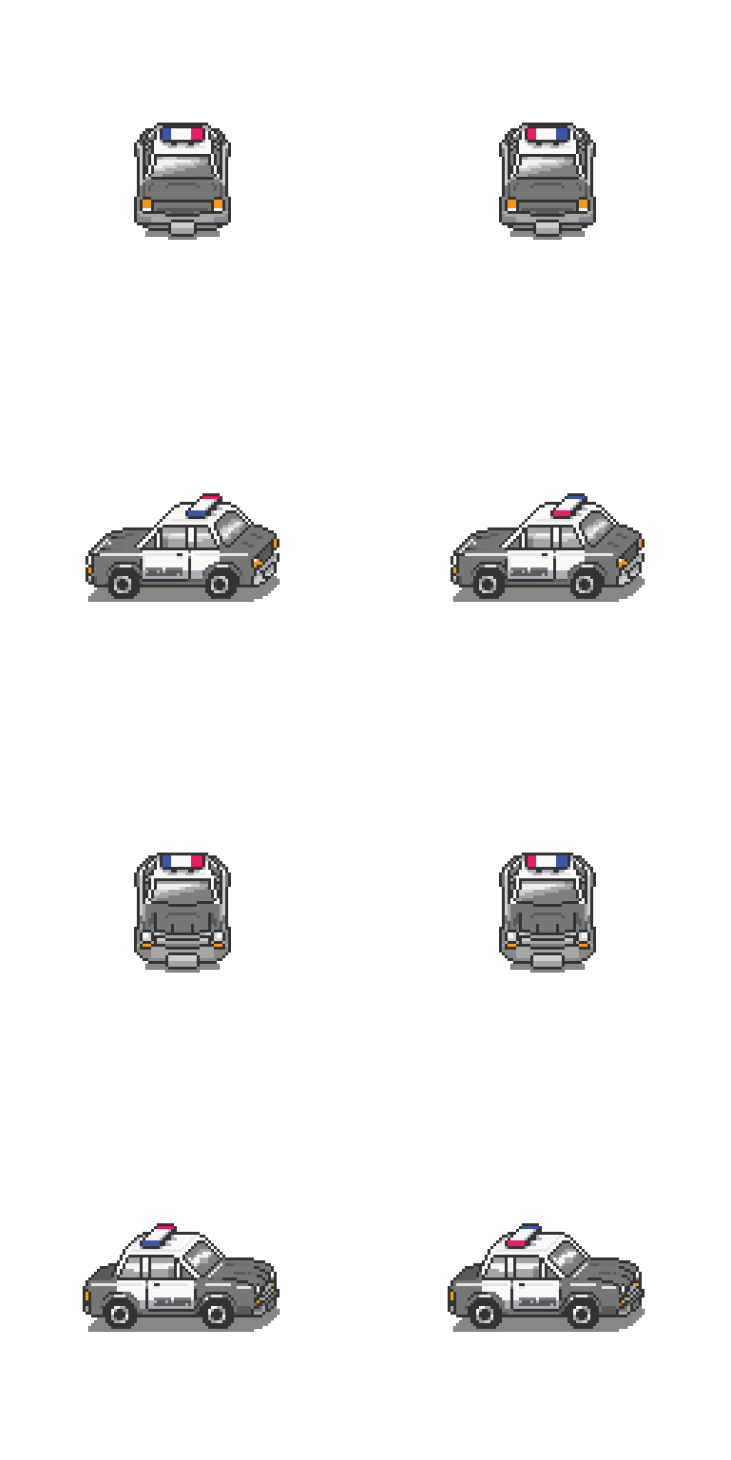
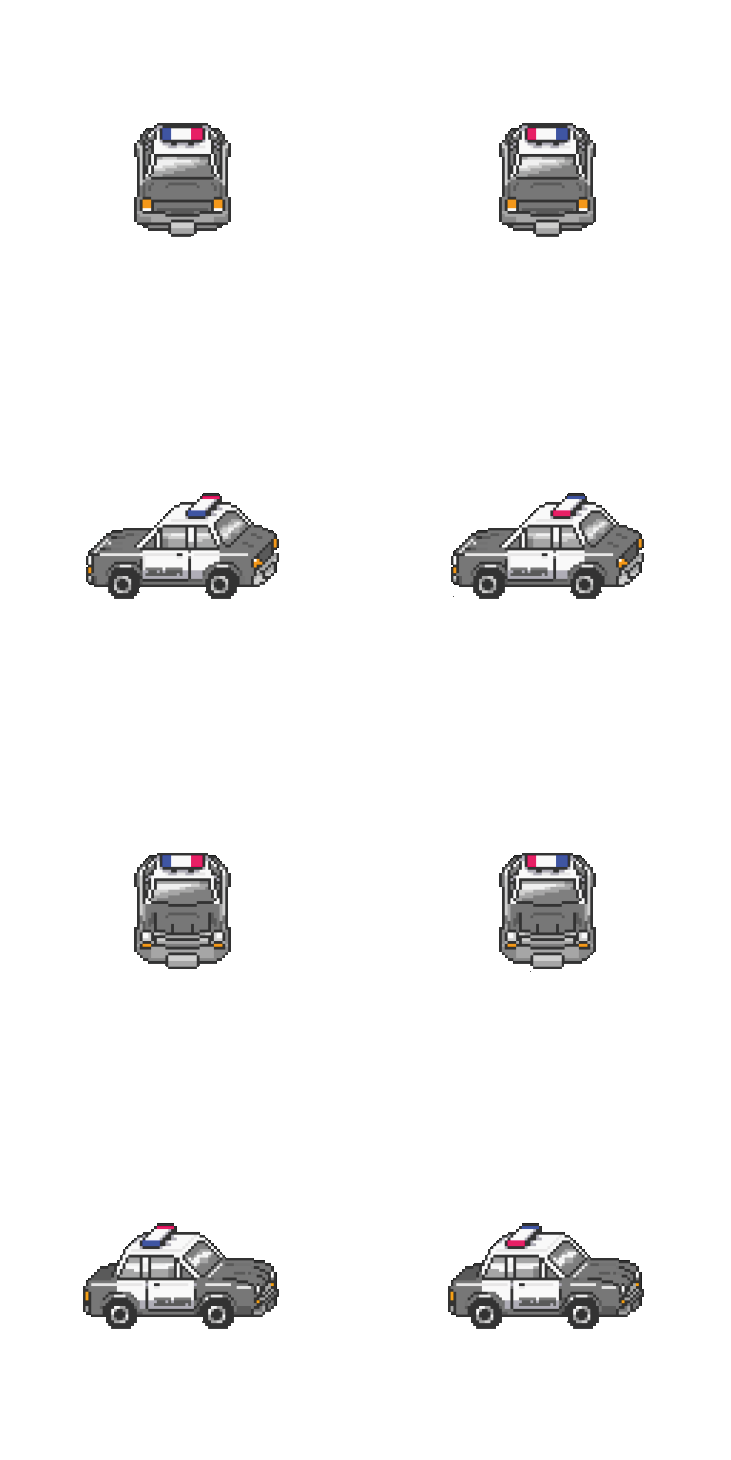
car moving

diff --git a/src/game/maps/directions.c b/src/game/maps/directions.c
@@ -7,94 +7,79 @@
 
 #include "../../../include/func_name.h"
 
-void move_up_map(rpg_t *rpg, int on_map)
+void move_up_map(rpg_t *rpg, int on_map, objects_t *objects, map_t *map)
 {
     if ((rpg->basic->evt->event.type == sfEvtTextEntered) &&
     (rpg->basic->evt->event.text.unicode ==
     (unsigned int)rpg->menu->stg->key_bnd->control[UP]->text[0])) {
         if (check_collision(rpg, UP) != COLLISION) {
-            rpg->game->in_game->map->pos_map[on_map].y +=
-            rpg->game->in_game->map->speed
-            [rpg->game->in_game->objects->speed_status];
-            rpg->game->in_game->objects->car->car_pos.y +=
-            rpg->game->in_game->map->speed
-            [rpg->game->in_game->objects->speed_status];
+            map->pos_map[on_map].y += map->speed[objects->speed_status];
+            if (map->speed[objects->speed_status] != 5)
+                objects->car->car_pos.y += map->speed[objects->speed_status];
             move_enemies_on_map(rpg, UP);
-            rpg->game->in_game->map->dir = UP;
+            map->dir = UP;
         }
-        sfSprite_setPosition(rpg->game->in_game->map->maps[on_map],
-        rpg->game->in_game->map->pos_map[on_map]);
+        sfSprite_setPosition(map->maps[on_map], map->pos_map[on_map]);
         rect_move_player(rpg, UP);
-        rpg->game->in_game->map->last_pos = UP;
+        map->last_pos = UP;
     }
 }
 
-void move_down_map(rpg_t *rpg,int on_map)
+void move_down_map(rpg_t *rpg, int on_map, objects_t *objects, map_t *map)
 {
-    move_up_map(rpg, on_map);
+    move_up_map(rpg, on_map, objects, map);
     if ((rpg->basic->evt->event.type == sfEvtTextEntered) &&
     (rpg->basic->evt->event.text.unicode ==
     (unsigned int)rpg->menu->stg->key_bnd->control[DOWN]->text[0])) {
         if (check_collision(rpg, DOWN) != COLLISION) {
-            rpg->game->in_game->map->pos_map[on_map].y -=
-            rpg->game->in_game->map->speed
-            [rpg->game->in_game->objects->speed_status];
-            rpg->game->in_game->objects->car->car_pos.y -=
-            rpg->game->in_game->map->speed
-            [rpg->game->in_game->objects->speed_status];
+            map->pos_map[on_map].y -= map->speed[objects->speed_status];
+            if (map->speed[objects->speed_status] != 5)
+                objects->car->car_pos.y -= map->speed[objects->speed_status];
             move_enemies_on_map(rpg, DOWN);
-            rpg->game->in_game->map->dir = DOWN;
+            map->dir = DOWN;
         }
-        sfSprite_setPosition(rpg->game->in_game->map->maps[on_map],
-        rpg->game->in_game->map->pos_map[on_map]);
+        sfSprite_setPosition(map->maps[on_map], map->pos_map[on_map]);
         rect_move_player(rpg, DOWN);
-        rpg->game->in_game->map->last_pos = DOWN;
+        map->last_pos = DOWN;
     }
 }
 
-void move_right_map(rpg_t *rpg, int on_map)
+void move_right_map(rpg_t *rpg, int on_map, objects_t *objects, map_t *map)
 {
-    move_down_map(rpg, on_map);
+    move_down_map(rpg, on_map, objects, map);
     if ((rpg->basic->evt->event.type == sfEvtTextEntered) &&
     (rpg->basic->evt->event.text.unicode ==
     (unsigned int)rpg->menu->stg->key_bnd->control[RIGHT]->text[0])) {
         if (check_collision(rpg, RIGHT) != COLLISION) {
-            rpg->game->in_game->map->pos_map[on_map].x -=
-            rpg->game->in_game->map->speed
-            [rpg->game->in_game->objects->speed_status];
-            rpg->game->in_game->objects->car->car_pos.x -=
-            rpg->game->in_game->map->speed
-            [rpg->game->in_game->objects->speed_status];
+            map->pos_map[on_map].x -= map->speed[objects->speed_status];
+            if (map->speed[objects->speed_status] != 5)
+                objects->car->car_pos.x -= map->speed[objects->speed_status];
             move_enemies_on_map(rpg, RIGHT);
-            rpg->game->in_game->map->dir = RIGHT;
+            map->dir = RIGHT;
         }
-        sfSprite_setPosition(rpg->game->in_game->map->maps[on_map],
-        rpg->game->in_game->map->pos_map[on_map]);
+        sfSprite_setPosition(map->maps[on_map], map->pos_map[on_map]);
         rect_move_player(rpg, RIGHT);
-        rpg->game->in_game->map->last_pos = RIGHT;
+        map->last_pos = RIGHT;
     }
 }
 
-void move_left_map(rpg_t *rpg, int on_map)
+void move_left_map(rpg_t *rpg, int on_map, objects_t *objects, map_t *map)
 {
-    move_right_map(rpg, on_map);
+    move_right_map(rpg, on_map, objects, map);
     if ((rpg->basic->evt->event.type == sfEvtTextEntered) &&
     (rpg->basic->evt->event.text.unicode ==
     (unsigned int)rpg->menu->stg->key_bnd->control[LEFT]->text[0])) {
         if (check_collision(rpg, LEFT) != COLLISION) {
-            rpg->game->in_game->map->pos_map[on_map].x +=
-            rpg->game->in_game->map->speed
-            [rpg->game->in_game->objects->speed_status];
-            rpg->game->in_game->objects->car->car_pos.x +=
-            rpg->game->in_game->map->speed
-            [rpg->game->in_game->objects->speed_status];
+            map->pos_map[on_map].x += map->speed[objects->speed_status];
+            if (map->speed[objects->speed_status] != 5)
+                objects->car->car_pos.x += map->speed[objects->speed_status];
             move_enemies_on_map(rpg, LEFT);
-            rpg->game->in_game->map->dir = LEFT;
+            map->dir = LEFT;
         }
-        sfSprite_setPosition(rpg->game->in_game->map->maps[on_map],
-        rpg->game->in_game->map->pos_map[on_map]);
+        sfSprite_setPosition(map->maps[on_map],
+        map->pos_map[on_map]);
         rect_move_player(rpg, LEFT);
-        rpg->game->in_game->map->last_pos = LEFT;
+        map->last_pos = LEFT;
     }
 }
 

diff --git a/src/game/inits/init_car.c b/src/game/inits/init_car.c
@@ -12,41 +12,86 @@ void set_pos_car(rpg_t *rpg)
     if (rpg->game->in_game->objects->car->status != 0) {
         rpg->game->in_game->objects->car->car_pos.x = 490.0;
         rpg->game->in_game->objects->car->car_pos.y = 300.0;
-        //rpg->game->in_game->objects->car->car_pos.x = ((rpg->game->in_game->map->pos_map[MAP_TUTO].x * -1));
-        //rpg->game->in_game->objects->car->car_pos.y = ((rpg->game->in_game->map->pos_map[MAP_TUTO].y  * -1));
         rpg->game->in_game->objects->car->status = 0;
     }
 }
 
-void print_car(rpg_t *rpg)
+void move_rect_car_next(rpg_t *rpg, int direction)
 {
-    if (rpg->basic->cnf->clk->time_car >= 0.2 &&
+    static float time_car = 0;
+
+    time_car += rpg->basic->cnf->clk->time_loop;
+    if (time_car >= 0.2 &&
     rpg->game->in_game->objects->car->car_line <= 1) {
-        rpg->basic->cnf->clk->time_car = 0;
-        rpg->game->in_game->objects->car->rect_car.left =
-        (rpg->game->in_game->objects->car->car_line == 1) ? 495 : 130.7;
+        time_car = 0;
+        if (direction == 0)
+            rpg->game->in_game->objects->car->rect_car[direction].left =
+            (rpg->game->in_game->objects->car->car_line == 1) ? 496 : 131;
+        else
+            rpg->game->in_game->objects->car->rect_car[direction].left =
+            (rpg->game->in_game->objects->car->car_line == 1) ? 446 : 81;
         rpg->game->in_game->objects->car->car_line++;
-    }
+        }
     rpg->game->in_game->objects->car->car_line =
     (rpg->game->in_game->objects->car->car_line > 1) ? 0 :
     rpg->game->in_game->objects->car->car_line;
+}
+
+void print_car(rpg_t *rpg, int direction)
+{
+    if (rpg->game->in_game->objects->speed_status == CAR_SPEED) {
+        move_rect_car_next(rpg, direction);
+    } else {
+        direction = rpg->game->in_game->objects->car->last_dir;
+    }
     sfSprite_setTextureRect(rpg->game->in_game->objects->car->car,
-    rpg->game->in_game->objects->car->rect_car);
+    rpg->game->in_game->objects->car->rect_car[direction]);
     sfSprite_setPosition(rpg->game->in_game->objects->car->car,
     rpg->game->in_game->objects->car->car_pos);
     sfRenderWindow_drawSprite(rpg->basic->wnd->my_wnd,
     rpg->game->in_game->objects->car->car, NULL);
 }
 
+void rect_move_car(rpg_t *rpg, objects_t *obj, int direction)
+{
+    if (direction == LEFT && obj->speed_status == CAR_SPEED) {
+        obj->car->last_dir = 1;
+        obj->car->top_car = 494;
+    }
+    if (direction == RIGHT && obj->speed_status == CAR_SPEED) {
+        obj->car->last_dir = 1;
+        obj->car->top_car = 1224;
+    }
+    if (direction == UP && obj->speed_status == CAR_SPEED) {
+        obj->car->last_dir = 0;
+        obj->car->top_car = 119;
+    }
+    if (direction == DOWN && obj->speed_status == CAR_SPEED) {
+        obj->car->last_dir = 0;
+        obj->car->top_car = 846;
+    }
+    obj->car->rect_car[obj->car->last_dir].top =
+    obj->car->top_car;
+    print_car(rpg, obj->car->last_dir);
+}
+
 void init_rect_car(objects_t *obj)
 {
-    obj->car->rect_car.height = 128;
-    obj->car->rect_car.width = 103;
-    obj->car->rect_car.left = 130.7;
-    obj->car->rect_car.top = 118;
+    obj->car->rect_car = malloc(sizeof(sfIntRect) * 2);
+    obj->car->rect_car[0].height = 128;
+    obj->car->rect_car[0].width = 103;
+    obj->car->rect_car[0].left = 131;
+    obj->car->rect_car[0].top = 119;
+    obj->car->rect_car[1].height = 109;
+    obj->car->rect_car[1].width = 203;
+    obj->car->rect_car[1].left = 81;
+    obj->car->rect_car[1].top = 494;
     obj->car->car_line = 0;
     obj->car->status = -1;
-    sfSprite_setTextureRect(obj->car->car, obj->car->rect_car);
+    obj->car->last_dir = 0;
+    obj->car->top_car = 119;
+    sfSprite_setTextureRect(obj->car->car, obj->car->rect_car[1]);
+    sfSprite_setTextureRect(obj->car->car, obj->car->rect_car[0]);
 }
 
 void init_car_spt(rpg_t *rpg)

diff --git a/src/game/maps/map_status.c b/src/game/maps/map_status.c
@@ -27,7 +27,8 @@ void print_map(rpg_t *rpg, int on_map)
     if (rpg->menu->status == ON_GAME &&
     !on_cine(rpg)) {
         player_run(rpg);
-        move_left_map(rpg, on_map);
+        move_left_map(rpg, on_map, rpg->game->in_game->objects,
+        rpg->game->in_game->map);
     }
     sfRenderWindow_drawSprite(rpg->basic->wnd->my_wnd,
     rpg->game->in_game->map->maps[on_map], NULL);
@@ -38,6 +39,9 @@ void print_map(rpg_t *rpg, int on_map)
     rpg->game->in_game->map->status != MAP_INSIDE_POLICE &&
     map_status != MAP_INSIDE_POLICE)
         destroy_enemies(rpg);
+    sfRenderWindow_drawSprite(rpg->basic->wnd->my_wnd,
+    rpg->game->in_game->objects->car->car, NULL);
+    printf("Draw car\n");
     print_player_move(rpg);
     collision_enemy_bullet(rpg);
 }

diff --git a/include/func_name.h b/include/func_name.h
@@ -111,7 +111,8 @@ void set_player_rect(rpg_t *rpg);
 int compare_equal_colors(sfColor c1, sfColor c2);
 int choose_map_outside_police(rpg_t *rpg);
 int place_outside_police(rpg_t *rpg);
-void move_left_map(rpg_t *rpg, int on_map);
+void move_left_map(rpg_t *rpg, int on_map, objects_t *objects, map_t *map);
+void rect_move_car(rpg_t *rpg, objects_t *obj, int direction);
 void player_stop(rpg_t *rpg);
 int spawn_enemies(rpg_t *rpg);
 void change_map(rpg_t *rpg);
@@ -150,7 +151,7 @@ void save_map(rpg_t *rpg);
 void load_save(rpg_t *rpg);
 int my_getnbr(char const *str);
 void init_car_spt(rpg_t *rpg);
-void print_car(rpg_t *rpg);
+void print_car(rpg_t *rpg, int direction);
 float vol_checker(float x);
 void init_function(rpg_t *rpg);
 void init_basic_value(rpg_t *rpg);

diff --git a/src/game/tutorial/tuto_map.c b/src/game/tutorial/tuto_map.c
@@ -23,11 +23,13 @@ void tuto_map(rpg_t *rpg)
 {
     int on_map = rpg->game->in_game->map->status;
 
-    move_left_map(rpg, on_map);
+    move_left_map(rpg, on_map, rpg->game->in_game->objects,
+    rpg->game->in_game->map);
     sfRenderWindow_drawSprite(rpg->basic->wnd->my_wnd,
     rpg->game->in_game->map->maps[on_map], NULL);
     if (rpg->tutorial->tutorial_stat >= 1)
-        print_car(rpg);
+        rect_move_car(rpg, rpg->game->in_game->objects,
+        rpg->game->in_game->map->dir);
     if(rpg->game->in_game->objects->speed_status != CAR_SPEED)
         print_player_move_tuto(rpg);
 }

diff --git a/src/init.c b/src/init.c
@@ -30,7 +30,6 @@ void init_basic_value(rpg_t *rpg)
 {
     rpg->basic->cnf->clk->time_keyboard = 0;
     rpg->basic->cnf->clk->time_tutorial = 0;
-    rpg->basic->cnf->clk->time_car = 0;
     rpg->basic->cnf->clk->time_shortcut = 0;
     rpg->menu->stg->stg_scene = GRAPH_SCN;
     rpg->game->in_game->inventory->shortcut_it = INVENTORY_OFF;

diff --git a/include/game.h b/include/game.h
@@ -63,11 +63,13 @@ typedef struct ig_sound_s
 typedef struct car_s
 {
     sfSprite *car;
-    sfIntRect rect_car;
+    sfIntRect *rect_car;
     sfVector2f car_pos;
     int car_line;
     int status;
     sfSoundBuffer *car_buffer;
+    int last_dir;
+    int top_car;
     sfSound *sirene;
 } car_t;
 

diff --git a/src/game/maps/general_player_mv.c b/src/game/maps/general_player_mv.c
@@ -32,6 +32,7 @@ void print_player_move(rpg_t *rpg)
     sfRenderWindow_drawSprite(rpg->basic->wnd->my_wnd,
     rpg->game->in_game->objects->players
     [rpg->menu->main_menu->new_game->character_chosen], NULL);
+
 }
 
 void rect_move_player(rpg_t *rpg, int direction)

diff --git a/src/init_window.c b/src/init_window.c
@@ -22,7 +22,6 @@ void move_clock(cloc_t *clk)
     clk->time_menu += clk->time_loop;
     clk->time_tutorial += clk->time_loop;
     clk->time_shortcut += clk->time_loop;
-    clk->time_car += clk->time_loop;
 }
 
 void create_window(basic_t *basic)

diff --git a/include/basics.h b/include/basics.h
@@ -31,7 +31,6 @@ typedef struct cloc_s
     float time_menu;
     float time_tutorial;
     float time_shortcut;
-    float time_car;
     float direction_clk;
 } cloc_t;
 
